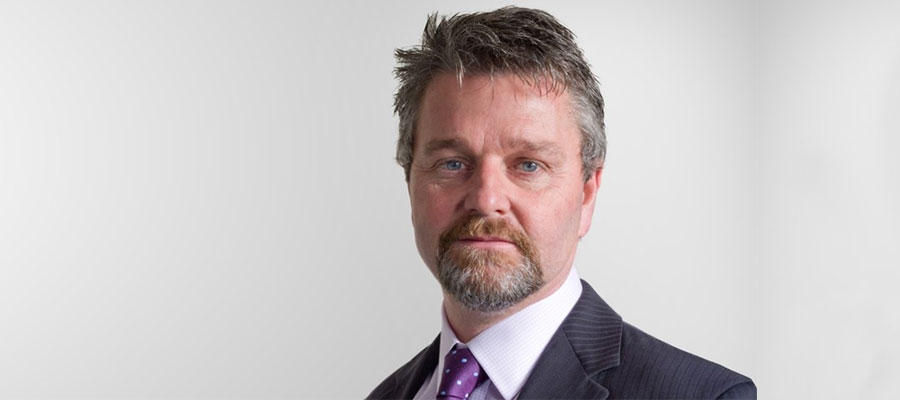
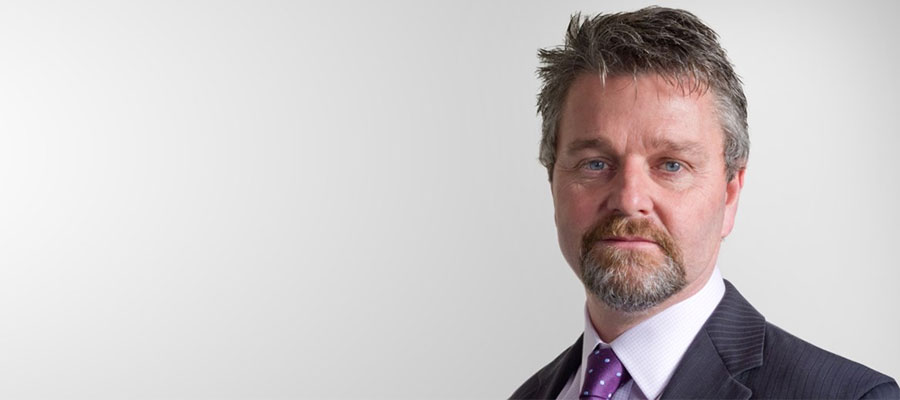
Add images, move pauls head.

diff --git a/_sass/components/_helpers.scss b/_sass/components/_helpers.scss
@@ -52,6 +52,7 @@ blockquote {
 		text-transform: uppercase;
 		font-weight: 700;
 		z-index: 2;
+		font-size: 4rem;
 	}
 	&:hover {
 		.tile_image {
@@ -60,9 +61,9 @@ blockquote {
 		}
 	}
 }
-.row-fullWidth {
+.row-wide {
 	padding: 0;
-	max-width: 100%;
+	max-width: 1600px;
 	width: 100%;
 }
 

diff --git a/_includes/tiles.html b/_includes/tiles.html
@@ -1,5 +1,5 @@
 <section class="section">
-	<div class="row row-fullWidth tiles">
+	<div class="row row-wide tiles">
 	{% for work in site.caseStudies %}
 	{% if work.published == y %}
 		<div class="columns small-12 medium-6 tile">

diff --git a/_caseStudies/sevenLongport.html b/_caseStudies/sevenLongport.html
@@ -1,6 +1,6 @@
 ---
 layout: default
 sitemap: false
-thumbnail: http://placehold.it/800x400
+thumbnail: "/assets/images/work/7longportThumbnail.jpg"
 title: 7 Longport
 ---

diff --git a/_caseStudies/hrgo.html b/_caseStudies/hrgo.html
@@ -1,7 +1,7 @@
 ---
 layout: default
 sitemap: false
-thumbnail: http://placehold.it/800x400
+thumbnail: "/assets/images/work/hrgoThumbnail.jpg"
 title: HRGO.co.uk
 ---
 
